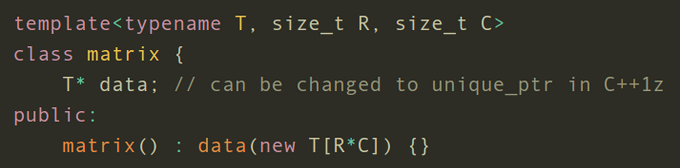
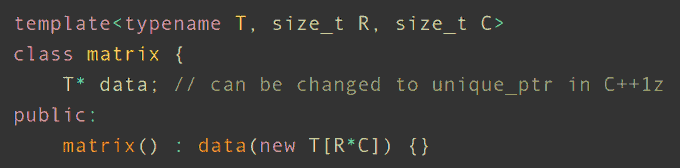
:art: optimized images for web

diff --git a/content/tutorials/python-course/index.md b/content/tutorials/python-course/index.md
@@ -1,7 +1,7 @@
 ---
 title: Python 3 Course
 date: 2020-05-07
-image: csglitz.png
+image: csglitz.jpg
 template: tutorial
 ---
 
